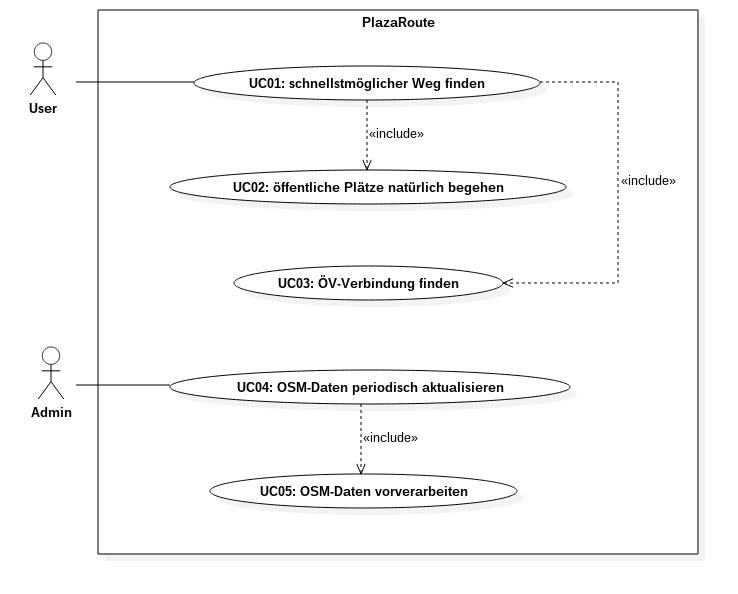
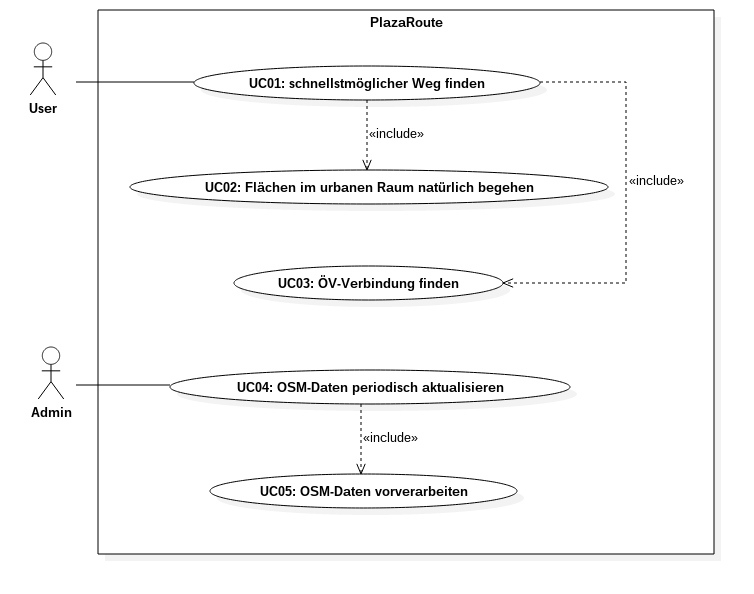
update requirements

diff --git a/projectdoc/anforderungen.tex b/projectdoc/anforderungen.tex
@@ -3,7 +3,7 @@
 
 \subsection{Use Cases}
 \label{sub:Use Cases}
-Im folgenden sind die funktionalen Anforderungen an PlazaRoute mit all seinen Komponenten, welche im Kapitel \ref{sec:Architektur} aufgeführt sind, als Use Cases im Brief-Format beschrieben. Zur Übersicht folgt zuerst das Use Case Diagramm in Abbildung \ref{fig:usecase_diagram}.
+Im folgenden sind die funktionalen Anforderungen an PlazaRoute mit all seinen Komponenten, welche im Kapitel \ref{sec:Architektur} aufgeführt sind, als Use Cases im Brief-Format beschrieben. Zur Übersicht ist das Use Case Diagramm in Abbildung \ref{fig:usecase_diagram} zu betrachten.
 
 \begin{figure}[ht]
 \centering
@@ -32,19 +32,19 @@ Aktoren: \emph{User}
 
 Include: \nameref{usecase:UC02}, \nameref{usecase:UC03}
 
-Nachdem der User einen Start- und Endpunkt (geografische Standorte) gegeben hat, erhält er den schnellstmöglichen Weg, welcher mit öffentlichen Verkehrsmitteln und zu Fuss machbar ist.
+Nachdem der User einen Start- und Endpunkt (geografische Standorte) angegeben hat, erhält er den schnellstmöglichen Weg, welcher mit öffentlichen Verkehrsmitteln und zu Fuss machbar ist.
 
-\subsubsection{UC02: öffentliche Plätze natürlich begehen}
+\subsubsection{UC02: Flächen im urbanen Raum natürlich begehen}
 \label{usecase:UC02}
 Aktoren: \emph{User}
 
-Der User wird beim Fussgänger-Routing über öffentliche Plätze natürlich (Definition im Kapitel \ref{criteria:Natürlichkeit}) geroutet. Dies betrifft insbesondere das Umgehen von Hindernissen. Dabei begeht er den Platz auf direktem Weg.
+Der User wird beim Fussgänger-Routing über Flächen im urbanen Raum auf direktem Weg natürlich (Definition im Kapitel \ref{criteria:Natürlichkeit} im Teil \ref{chap:Technischer Bericht}) geroutet. Dies betrifft insbesondere das Umgehen von Hindernissen.
 
 \subsubsection{UC03: ÖV-Verbindung finden}
 \label{usecase:UC03}
 Aktoren: \emph{User}
 
-Der User wird zu Fuss zu einer ÖV-Haltestelle geroutet, welche sich in einem Umkreis von 1km befindet. Falls mehrere ÖV-Haltestellen verfügbar sind, wird die ÖV-Haltestelle gewählt, welche die kürzeste Reisezeit (Fussweg + ÖV-Weg) hat.
+Der User wird zu Fuss zu einer ÖV-Haltestelle geroutet, welche sich in einem Umkreis von 1 km befindet. Falls mehrere ÖV-Haltestellen verfügbar sind, wird die ÖV-Haltestelle gewählt, welche die kürzeste Reisezeit (Fussweg + ÖV-Weg) hat.
 
 \subsubsection{UC04: OSM-Daten periodisch aktualisieren}
 \label{usecase:UC04}
@@ -58,7 +58,7 @@ Der Admin aktualisiert die \ac{OSM}-Daten, auf welche in \nameref{usecase:UC01} 
 \label{usecase:UC05}
 Aktoren: \emph{Admin}
 
-Der Admin führt die Vorverarbeitung der \ac{OSM}-Daten durch. Unter Vorverarbeitung versteht man das Einzeichnen von Fusswegen auf öffentlichen Plätzen. Diese Daten werden der Routing-Engine übergeben und ermöglicht, dass die Routing-Engine den schnellstmöglichen Weg über öffentliche Plätze finden kann.
+Der Admin führt die Vorverarbeitung der \ac{OSM}-Daten durch. Unter Vorverarbeitung versteht man das Einzeichnen von Fusswegen auf Flächen im urbanen Raum. Diese Daten werden der Routing-Engine übergeben und ermöglicht, dass die Routing-Engine den schnellstmöglichen Weg über Flächen im urbanen Raum finden kann.
 
 \subsection{Nicht-funktionale Anforderungen}
 \label{sub:Nicht-funktionale Anforderungen}
@@ -66,7 +66,7 @@ Der Admin führt die Vorverarbeitung der \ac{OSM}-Daten durch. Unter Vorverarbei
 \subsubsection{NFA01: Docker-Images}
 \label{NFA:NFA01}
 
-PlazaRoute wird in Docker-Images ausgeliefert, um eine Verfügbarkeit auf unterschiedlichen Systemen sicherstellen zu können.
+PlazaRoute wird in Docker-Images ausgeliefert, um eine Verfügbarkeit auf unterschiedlichen Systemen sicherstellen und um das Deployment vereinfachen zu können.
 
 \subsubsection{NFA02: austauschbare Routing-Engine}
 \label{NFA:NFA02}
@@ -76,17 +76,18 @@ Die Routing-Engine, welche von PlazaRoute verwendet wird, soll austauschbar sein
 \subsubsection{NFA03: periodische Aktualisierung der OSM-Daten}
 \label{NFA:NFA03}
 
-Die auf Fussgänger optimierten Routing-Graphen werden wöchentlich mit den neuesten \ac{OSM}-Daten vorverarbeitet.
+Die \ac{OSM}-Daten werden wöchentlich für ein optimiertes Fussgänger-Routing über Flächen im urbanen Raum vorverarbeitet und der Routing-Engine übergeben.
+
 
 \subsubsection{NFA04: Dauer der Vorverarbeitung}
 \label{NFA:NFA04}
 
-Die Vorverarbeitung der \ac{OSM}-Daten (Optimierung auf öffentlichen Flächen) darf maximal 2 Stunden dauern.
+Die Vorverarbeitung der \ac{OSM}-Daten (Optimierung auf Flächen im urbanen Raum) darf maximal 2 Stunden dauern.
 
 \subsubsection{NFA05: zusätzliche Datenmenge}
 \label{NFA:NFA05}
 
-Die zusätzlichen Daten für die Optimierung (zusätzlich eingezeichnete Wege über öffentliche Flächen) dürfen nicht mehr als 1\% des Kartenmaterials betragen.
+Die zusätzlichen Daten für die Optimierung (zusätzlich eingezeichnete Wege über Flächen im urbanen Raum) dürfen nicht mehr als 1\% des Kartenmaterials betragen.
 
 \subsubsection{NFA06: Dauer des Unterbruchs bei OSM-Daten-Integration}
 \label{NFA:NFA06}
